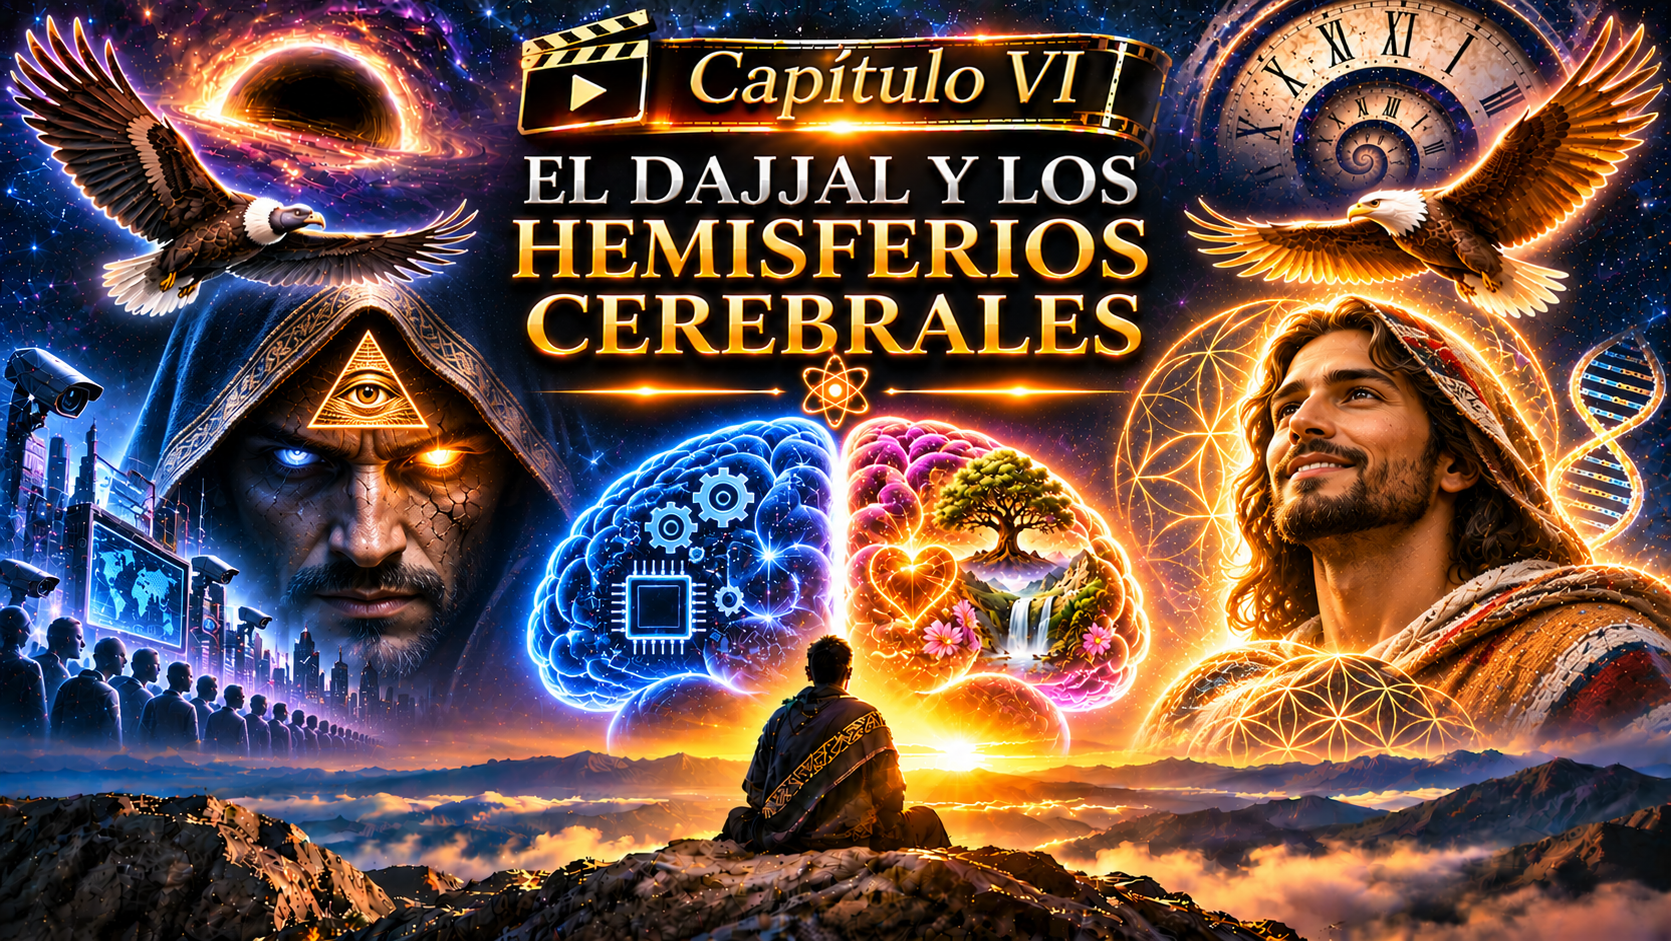
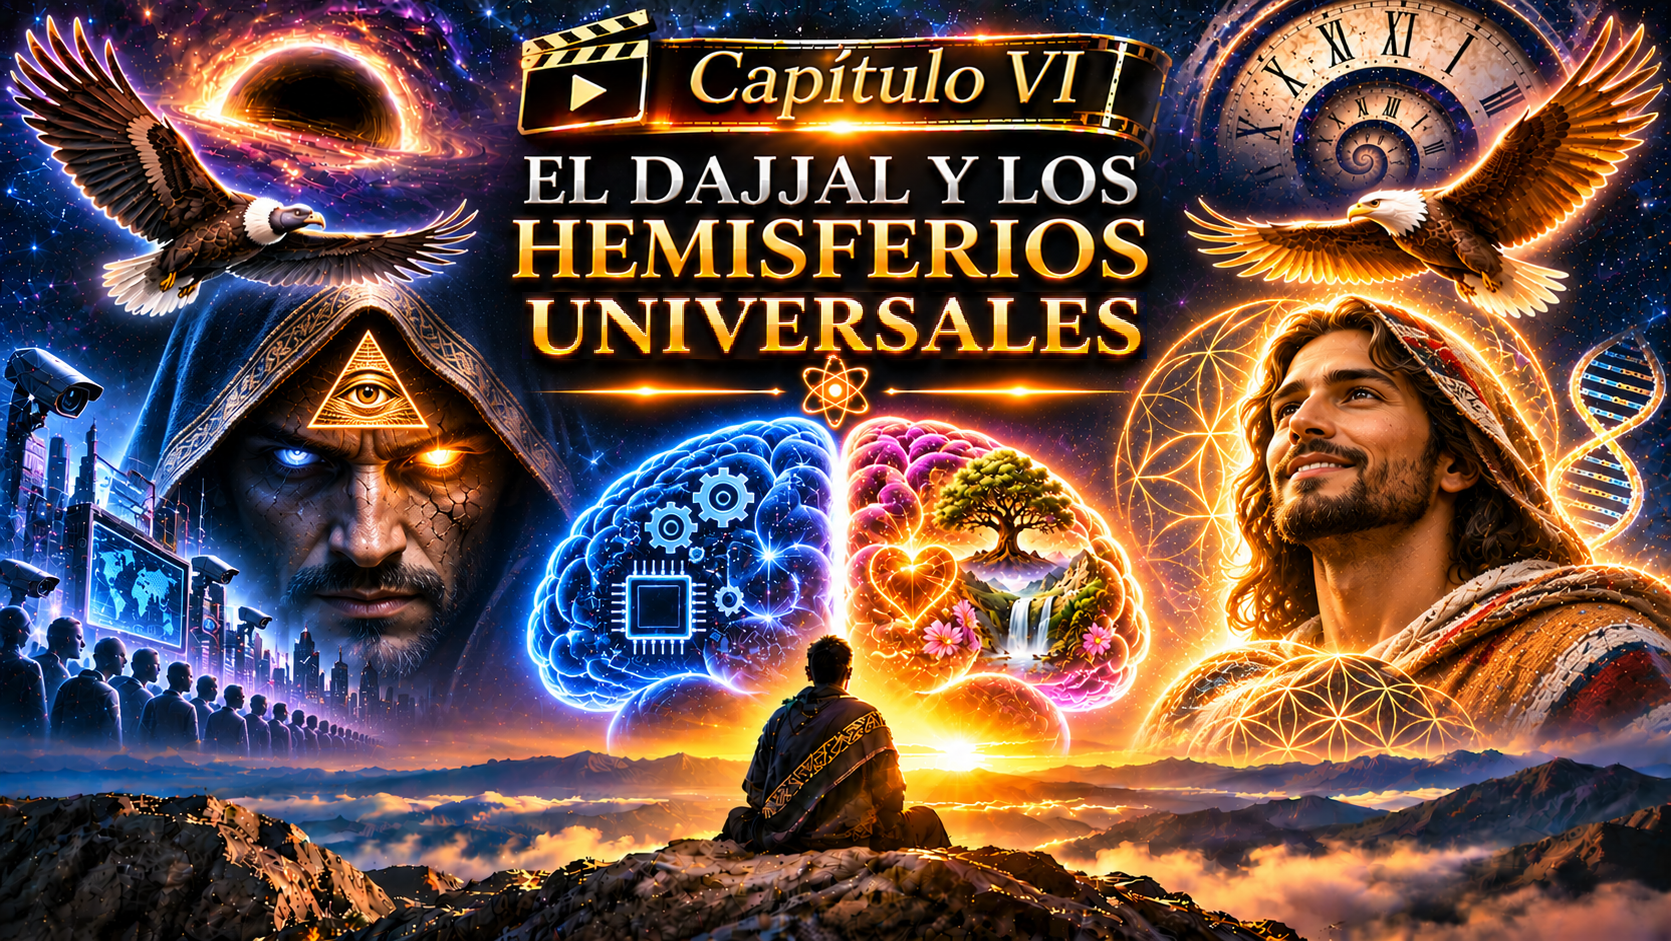
''

Changed region(s): [[0.3112, 0.3082, 0.6846, 0.4006]]

diff --git a/latex/CondoryAguila_ES.tex b/latex/CondoryAguila_ES.tex
@@ -212,7 +212,7 @@ right=0.35cm
 							\end{extraer}}\\[0.01cm]
 			\tikz[baseline=-0.5ex]{\draw[golddark, line width=0.7pt] (-2.2,0) -- (2.2,0); \fill[golddark] (0,0) circle (1.5pt);}\\[0.01cm]
 			{\small\bfseries\color{golddark}\begin{extraer}{main_sub}  
-				    Líbrate de la ilusión del Demiurgo: La materia y el tiempo 
+				    Albergas un universo en cada hemisferio
 			\end{extraer}}
 			
 			\vspace{0.22cm}
@@ -220,7 +220,7 @@ right=0.35cm
 			{\fontsize{7.2pt}{8.2pt}\selectfont 
 				\begin{extraer}{header_desc}
 					
-				La gnosis nos permite comprender quiénes realmente somos realmente en el universo. Mientras que la primera venida de Cristo estuvo vinculada a la materia, la segunda se relaciona con el tiempo. Esto nos revela que la conciencia humana trasciende ambas —una verdad explicada desde la espiritualidad con la certeza de que Dios es Uno (el Cóndor) y complementada por la física moderna (el Águila)—
+				 El ego demiúrgico posee masa y crea la ilusión materio-temporal de tu hemisferio izquierdo; por ello, solo a través del sentimiento de Sophia es posible retornar al plano divino e intemporal del cosmos en tu hemisferio derecho.
 					
 					
 				\end{extraer}
@@ -247,13 +247,13 @@ right=0.35cm
 	\fontsize{7.5pt}{8.6pt}\selectfont
 	\setstretch{0.88}
 	{\centering\bfseries\color{deepblue}%
-		\begin{extraer}{left_title} Dios es UNO \corazonrojo y Yaldabaoth es EGO \cerebro \end{extraer}\par
+		\begin{extraer}{left_title} El Retorno de Sophia: De la Prisión de Yaldabaoth al Reino de Luz \end{extraer}\par
 		
 		}
 	\vspace{0.08cm}
 	\begin{justify}
 		\begin{extraer}{left_body}
-		Los evangelios gnósticos esconden, desde hace dos milenios, la respuesta a una de las mayores incógnitas de la física moderna: la gravedad cuántica. Dado que la materia le dice al espacio-tiempo cómo curvarse, y el espacio-tiempo le dice a la materia cómo moverse. Si el ego curva el espacio-tiempo, el plano temporal del cosmos emerge de nuestra \textit{psyche \cerebro}, mientras que el intemporal pertenece al \textit{pneuma \corazonrojo}. En este contexto, la premisa de que \enquote{el Padre y yo somos uno} invita a desprenderse del \enquote{falso yo} para retornar a la luz pura del Padre Invisible. Así, el Pléroma se revela como un espacio-tiempo plano frente a la prisión material del espacio-tiempo curvo, lo que demuestra que la ilusión del Demiurgo \cerebro es la materia y el tiempo \cruzinvertida, y que la cruz cristiana es una llave \cruz para despertar \corazonrojo
+		Los evangelios gnósticos esconden, desde hace dos milenios, la respuesta a una de las mayores incógnitas de la física moderna: la gravedad cuántica. Dado que la materia le dice al espacio-tiempo cómo curvarse, y el espacio-tiempo le dice a la materia cómo moverse. Si el ego curva el espacio-tiempo, el plano temporal del cosmos emerge de nuestra \textit{psyche \cerebro}, mientras que el intemporal pertenece al \textit{pneuma \corazonrojo}. En este contexto, la premisa de que \enquote{el Padre y yo somos uno} invita a desprenderse del \enquote{falso yo} para retornar al Reino de luz pura donde habita el Padre Invisible. 
 		\end{extraer}
 	\end{justify}
   \end{tcolorbox}
@@ -266,8 +266,8 @@ right=0.35cm
 	\begin{minipage}[T]{0.25\textwidth}
 		\begin{tcolorbox}[contentStyle, width=\textwidth]
 			\centering
-			{\large\color{deepblue}\bfseries\begin{extraer}{universe_light_title} Plano divino y atemporal \cruz\corazonrojo \end{extraer}}\\[0.05cm]
-			{\footnotesize\color{golddark}\bfseries\begin{extraer}{universe_light_sub}El Pléroma: El espacio-tiempo plano \end{extraer}}\\[0.01cm]
+			{\large\color{deepblue}\bfseries\begin{extraer}{universe_light_title} Reino de Luz \cruz\corazonrojo \end{extraer}}\\[0.05cm]
+			{\footnotesize\color{golddark}\bfseries\begin{extraer}{universe_light_sub}plano divino e intemporal \end{extraer}}\\[0.01cm]
 			\begin{justify}{\fontsize{7.6pt}{8.5pt}\selectfont\color{textgray}
 					\begin{extraer}{universe_light_text}
 						Comprender que la muerte no es un final absoluto, sino una transformación nos libera de la ignorancia. En el hemisferio derecho, nuestra pneuma  reside el plano intemporal y divino, la dimensión de alta frecuencia $\vert 999\rangle$. Allí se encuentra la tierra de la unión y la libertad \textit{\textbf{(La Patria Grande)}}.
@@ -281,7 +281,7 @@ right=0.35cm
 			\centering
 			\includegraphics[width=\textwidth,height=4.20cm,keepaspectratio]{../images/sophiavsdemiurgo.png}\\[0.01cm]
 			{\footnotesize\color{golddark}\bfseries \begin{extraer}{center_text}
-				El Reino de Dios está adentro de vosotros y está fuera de vosotros (Evangelio de Tomás, Dicho 3). El ego demiúrgico posee masa y crea la prisión materio-temporal; por ello, solo a través del sentimiento de \textit{Sophia} es posible retornar al plano divino e intemporal del cosmos:  El pléroma  
+				El Reino de Dios está adentro de vosotros y está fuera de vosotros (Evangelio de Tomás, Dicho 3). 
 			\end{extraer}}
 		\end{tcolorbox}
 	\end{minipage}%
@@ -289,8 +289,8 @@ right=0.35cm
 	\begin{minipage}[T]{0.25\textwidth}
 		\begin{tcolorbox}[contentStyle, width=\textwidth]
 			\centering
-			{\large\color{deepblue}\bfseries\begin{extraer}{universe_mat_title} Plano material y temporal \cruzinvertida\cerebro \end{extraer}}\\[0.05cm]
-			{\footnotesize\color{golddark}\bfseries\begin{extraer}{universe_mat_sub} La Prision: El espacio-tiempo curvo \end{extraer}}\\[0.01cm]
+			{\large\color{deepblue}\bfseries\begin{extraer}{universe_mat_title} Prisión de Yaldabaoth\cruzinvertida\cerebro \end{extraer}}\\[0.05cm]
+			{\footnotesize\color{golddark}\bfseries\begin{extraer}{universe_mat_sub} plano material y temporal \end{extraer}}\\[0.01cm]
 			\begin{justify}{\fontsize{7.6pt}{8.5pt}\selectfont\color{textgray}
 					\begin{extraer}{universe_mat_text}
 						El cuerpo humano está compuesto de carbono-12 ($6p^+$, $6e^-$, $6n^0$). En el hemisferio izquierdo radica el plano temporal y material, la dimensión de baja frecuencia $\vert 666\rangle$. La fuerza gravitacional nos arrastra hacia un lugar donde: \enquote{la guerra es la paz, la libertad es la esclavitud y la ignorancia es la fuerza} (1984).
@@ -394,16 +394,17 @@ right=0.35cm
 		\begin{tcolorbox}[contentStyle, width=\textwidth]
 			\fontsize{7.3pt}{8.4pt}\selectfont\color{textgray}
 			
-			{\small\color{deepblue}\bfseries\begin{extraer}{cap5_title}Capítulo 5: El Pléroma de Luz y La Prisión Material (08:43 -- 10:16)\end{extraer}}\\[0.02cm]
+			{\small\color{deepblue}\bfseries\begin{extraer}{cap5_title}Capítulo 5: El Reino de Luz y La Prisión del Demiurgo (08:43 -- 10:16)\end{extraer}}\\[0.02cm]
 			\begin{justify}
 				\begin{extraer}{cap5_desc}
-					El tiempo del no-tiempo y el despertar anunciado por la cosmogonía maya. La interrogante cosmológica sobre el origen de Yaldabaoth y la revelación del Pléroma: el reino trascendente de perfección, silencio y luz pura donde habita el Padre Invisible, emanado a través de Sophia (la sabiduría).
+					El Demiurgo Yaldabaoth —también conocido como el gran arquitecto de la materia— es el creador del mundo sensible, un dios egocéntrico e ignorante de la verdadera divinidad. Por otro lado, Sophia yace cautiva en la densidad de la materia, aguardando la chispa del despertar
+					.
 				\end{extraer}
 			\end{justify}
 			
 			\vspace{0.08cm}
 			
-			{\small\color{deepblue}\bfseries\begin{extraer}{cap6_title}Capítulo 6: El Dajjal y los Hemisferios Cerebrales (10:23 -- 14:38)\end{extraer}}\\[0.02cm]
+			{\small\color{deepblue}\bfseries\begin{extraer}{cap6_title}Capítulo 6: El Dajjal y los Hemisferios Universales (10:23 -- 14:38)\end{extraer}}\\[0.02cm]
 			\begin{justify}
 				\begin{extraer}{cap6_desc}
 					La escatología comparada y la distorsión perceptiva: la figura del Dajjal y el truco visual del paraíso invertido (el río y el fuego). El mecanismo del \textit{doblepensar} orwelliano (\textit{1984}) como prisión cognitiva del ego, frente al mensaje revolucionario de Jesús que desmantela el sistema de esclavitud imperial.
@@ -415,7 +416,8 @@ right=0.35cm
 			{\small\color{deepblue}\bfseries\begin{extraer}{cap7_title}Capítulo 7: Reflexiones sobre Nuestro Lugar en el Cosmos (14:40 -- 16:30)\end{extraer}}\\[0.02cm]
 			\begin{justify}
 				\begin{extraer}{cap7_desc}
-					La afirmación capital: \enquote{Yo soy el camino, la verdad y la vida; el Padre y yo uno somos} (Juan 14:6). La confrontación ante la pregunta de las preguntas: ¿Jesús es Dios en un universo inconmensurable de más de dos billones de galaxias? La paradoja de la encarnación cósmica en un diminuto planeta.
+				El final, la gran paradoja se reduce a esto: en la inmensidad del cosmos —con sus más de dos billones de galaxias— es ahí donde resuena con más fuerza la frase de Jesús: “El Padre y yo uno somos”. ¿Habrá tenido esto un mensaje oculto sobre el vínculo profundo entre la humanidad y el cosmos?
+					
 				\end{extraer}
 			\end{justify}
 			
